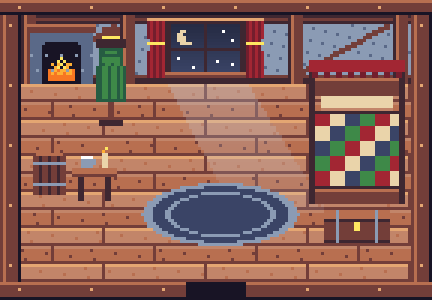
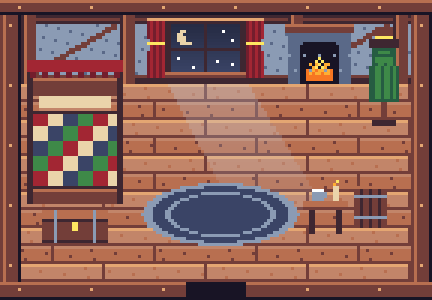
feat: the waiting room's reader sits with the hearth at its back
The hearth moves from the corner to the back wall, right of the window,
and the hero reads in its armchair before it; the canopy bed and its
trunk go left, the coat rack to the right corner, the barrel and the
table to the bottom right, out of the hero's way in.

Changed region(s): [[0.662, 0.06, 0.963, 0.81], [0.0602, 0.06, 0.3009, 0.81]]

diff --git a/scripts/room_idle.py b/scripts/room_idle.py
@@ -1,10 +1,11 @@
 #!/usr/bin/env python3
 """Draw the waiting room: an inn's bedroom at night. Plaster walls between
 dark timber, a window with the moon whose light falls across the board
-floor, a small hearth in the corner, a canopy bed with a patchwork quilt
-and a trunk at its foot, a coat rack, a barrel and a little table with a
-mug and a candle, and a round rug. The hero reads in an armchair by the
-window (the code draws the armchair, at the room style's spot).
+floor, a small hearth by it, a canopy bed with a patchwork quilt and a
+trunk at its foot, a coat rack, a barrel and a little table with a mug
+and a candle, and a round rug. The hero reads in an armchair before the
+hearth, by the window (the code draws the armchair, at the room style's
+spot).
 
 The walls, floor and frame keep the other rooms' places (the door, the
 back wall's height), so the hero walks in and out the same way.
@@ -48,8 +49,10 @@ class Layer:
     def __init__(self):
         self.im = Image.new('RGBA', (W, H))
         self.px = self.im.load()
+        self.at = (0, 0)  # where the piece being drawn is moved to
 
     def put(self, x, y, c, a=255):
+        x, y = x + self.at[0], y + self.at[1]
         if 0 <= x < W and 0 <= y < H:
             self.px[x, y] = tuple(c) + (a,)
 
@@ -60,6 +63,7 @@ class Layer:
 
     def get(self, x, y):
         return self.px[x, y][:3]
+
 
 
 def mix(a, b, k):
@@ -155,7 +159,8 @@ def furniture():
                 p.put(x, y, CURTAIN_DARK if (x - x0) % 2 == 0 else CURTAIN)
         for x in range(x0, x1 + 1):
             p.put(x, 14, GOLD)                  # the tie
-    # ---- Hearth in the corner: stone, a small fire.
+    # ---- Hearth right of the window, behind the reader: stone, a small fire.
+    p.at = (86, 0)
     p.box(10, 9, 30, 27, STONE)
     p.box(10, 9, 30, 9, STONE_LIT)
     p.box(9, 8, 31, 10, BEAM)                   # mantel
@@ -169,7 +174,9 @@ def furniture():
     for x in range(10, 31, 5):
         p.put(x, 18, STONE_LIT)
         p.put(x + 2, 23, STONE_LIT)
-    # ---- Coat rack: a pole, a hook bar, a hooded cloak and a hat on top.
+    # ---- Coat rack in the right corner: a pole, a hook bar, a hooded cloak
+    # and a hat on top.
+    p.at = (91, 0)
     p.box(36, 12, 37, 40, BEAM)
     p.box(33, 40, 40, 41, DARK)
     p.box(32, 15, 41, 15, DARK)
@@ -185,7 +192,8 @@ def furniture():
     p.box(32, 13, 41, 14, DARK)                 # the hat's brim
     p.box(34, 9, 39, 12, BEAM)                  # its crown
     p.box(34, 12, 39, 12, GOLD)                 # and band
-    # ---- Canopy bed on the right: posts, drape, headboard, pillow, quilt.
+    # ---- Canopy bed on the left: posts, drape, headboard, pillow, quilt.
+    p.at = (-94, 0)
     for x0 in (103, 133):
         p.box(x0, 20, x0 + 1, 67, DARK)
     p.box(103, 20, 134, 23, CURTAIN)
@@ -205,6 +213,7 @@ def furniture():
     p.box(105, 63, 132, 67, BEAM)
     p.box(105, 63, 132, 63, WOOD)
     # ---- Trunk at the bed's foot.
+    p.at = (-94, 0)
     p.box(108, 70, 129, 80, BEAM)
     p.box(108, 70, 129, 72, WOOD)
     p.box(108, 73, 129, 73, DARK)
@@ -212,13 +221,15 @@ def furniture():
     for x in (112, 125):
         p.box(x, 70, x, 80, METAL)
     p.box(118, 74, 119, 76, GOLD)
-    # ---- Barrel, and a little table with a mug and a candle.
+    # ---- Barrel, and a little table with a mug and a candle, bottom right.
+    p.at = (107, 11)
     p.box(11, 52, 21, 64, BEAM)
     p.box(12, 51, 20, 51, WOOD)
     for x in (13, 16, 19):
         p.box(x, 52, x, 64, DARK)
     for y in (54, 61):
         p.box(11, y, 21, y, METAL)
+    p.at = (77, 11)
     p.box(24, 56, 38, 58, WOOD)                 # the table's top
     p.box(24, 58, 38, 58, BEAM)
     p.box(26, 59, 27, 66, DARK)
@@ -230,6 +241,7 @@ def furniture():
     p.put(34, 50, FIRE[1])
     p.put(35, 49, FIRE[2])
     # ---- Round rug.
+    p.at = (0, 0)
     for y in range(60, 82):
         for x in range(46, 100):
             d = ((x - 73) / 26) ** 2 + ((y - 71) / 10.5) ** 2

diff --git a/src/room_moves.rs b/src/room_moves.rs
@@ -9,8 +9,8 @@ pub fn moves(state: &str, size: RoomSize) -> &'static [Move] {
         ("blocked", RoomSize::Small) => &[(18.0, 5.0, 30.0, 16.0, 0.0, -1.0), (114.0, 5.0, 126.0, 16.0, 0.0, -1.0), (30.0, 30.0, 37.0, 40.0, 0.0, -9.0), (106.0, 30.0, 113.0, 40.0, 0.0, -9.0), (12.0, 56.0, 22.0, 65.0, 0.0, -32.0), (44.0, 44.0, 100.0, 82.0, 0.0, -38.0), (50.0, 48.0, 94.0, 55.0, 0.0, -26.0), (50.0, 71.0, 94.0, 78.0, 0.0, -42.0), (112.0, 42.0, 121.0, 51.0, 0.0, -20.0)],
         ("done", RoomSize::Medium) => &[(22.0, 30.0, 31.0, 43.0, 0.0, -2.0), (10.0, 40.0, 20.0, 45.0, 0.0, -7.0), (122.0, 40.0, 132.0, 45.0, 0.0, -7.0), (100.0, 44.0, 116.0, 58.0, 0.0, -12.0), (40.0, 50.0, 100.0, 84.0, 0.0, -26.0), (44.0, 56.0, 96.0, 69.0, 0.0, -26.0), (44.0, 78.0, 96.0, 91.0, 0.0, -35.0), (30.0, 66.0, 40.0, 71.0, 0.0, -22.0), (124.0, 74.0, 134.0, 79.0, 0.0, -27.0), (10.0, 80.0, 20.0, 85.0, 0.0, -32.0), (112.0, 82.0, 122.0, 87.0, -4.0, -32.0)],
         ("done", RoomSize::Small) => &[(14.0, 5.0, 26.0, 16.0, 0.0, -1.0), (118.0, 5.0, 130.0, 16.0, 0.0, -1.0), (36.0, 9.0, 39.0, 15.0, 0.0, -2.0), (104.0, 9.0, 107.0, 15.0, 0.0, -2.0), (22.0, 30.0, 31.0, 43.0, 0.0, -8.0), (100.0, 44.0, 116.0, 58.0, 0.0, -23.0), (40.0, 50.0, 100.0, 84.0, 0.0, -40.0), (44.0, 56.0, 96.0, 63.0, 0.0, -34.0), (44.0, 84.0, 96.0, 91.0, 0.0, -55.0), (10.0, 40.0, 20.0, 45.0, 0.0, -9.0), (122.0, 40.0, 132.0, 45.0, 0.0, -9.0)],
-        ("idle", RoomSize::Medium) => &[(88.0, 30.0, 102.0, 52.0, 0.0, -4.0), (103.0, 60.0, 135.0, 68.0, 0.0, -24.0), (108.0, 70.0, 130.0, 81.0, 0.0, -25.0), (11.0, 51.0, 22.0, 65.0, 0.0, -16.0), (24.0, 49.0, 39.0, 67.0, 0.0, -16.0), (46.0, 60.0, 100.0, 71.0, 0.0, -24.0), (46.0, 73.0, 100.0, 82.0, 0.0, -26.0)],
-        ("idle", RoomSize::Small) => &[(49.0, 6.0, 88.0, 17.0, 0.0, -1.0), (49.0, 21.0, 88.0, 26.0, 0.0, -5.0), (9.0, 8.0, 32.0, 14.0, 0.0, -2.0), (9.0, 18.0, 32.0, 28.0, 0.0, -6.0), (88.0, 30.0, 102.0, 52.0, 0.0, -20.0), (103.0, 20.0, 135.0, 36.0, 0.0, -10.0), (103.0, 58.0, 135.0, 68.0, 0.0, -32.0), (11.0, 51.0, 22.0, 65.0, 0.0, -29.0), (24.0, 49.0, 39.0, 59.0, 0.0, -24.0)],
+        ("idle", RoomSize::Medium) => &[(98.0, 30.0, 114.0, 52.0, 0.0, -4.0), (9.0, 60.0, 42.0, 68.0, 0.0, -24.0), (14.0, 70.0, 37.0, 81.0, 0.0, -25.0), (118.0, 62.0, 129.0, 76.0, 0.0, -20.0), (46.0, 60.0, 100.0, 71.0, 0.0, -24.0), (46.0, 73.0, 100.0, 82.0, 0.0, -26.0)],
+        ("idle", RoomSize::Small) => &[(49.0, 6.0, 88.0, 17.0, 0.0, -1.0), (49.0, 21.0, 88.0, 26.0, 0.0, -5.0), (95.0, 8.0, 118.0, 14.0, 0.0, -2.0), (95.0, 18.0, 118.0, 28.0, 0.0, -6.0), (98.0, 30.0, 114.0, 52.0, 0.0, -20.0), (9.0, 20.0, 42.0, 36.0, 0.0, -10.0), (9.0, 58.0, 42.0, 68.0, 0.0, -32.0), (118.0, 62.0, 129.0, 76.0, 0.0, -40.0)],
         ("limited", RoomSize::Medium) => &[(12.0, 56.0, 22.0, 65.0, 0.0, -26.0), (12.0, 66.0, 30.0, 83.0, 0.0, -27.0), (44.0, 40.0, 100.0, 70.0, 0.0, -16.0), (60.0, 70.0, 84.0, 80.0, 0.0, -20.0), (106.0, 40.0, 122.0, 52.0, 0.0, -8.0)],
         ("limited", RoomSize::Small) => &[(18.0, 5.0, 30.0, 16.0, 0.0, -1.0), (114.0, 5.0, 126.0, 16.0, 0.0, -1.0), (30.0, 30.0, 37.0, 40.0, 0.0, -9.0), (106.0, 30.0, 113.0, 40.0, 0.0, -9.0), (12.0, 56.0, 22.0, 65.0, 0.0, -32.0), (44.0, 40.0, 100.0, 70.0, 0.0, -30.0), (60.0, 70.0, 84.0, 80.0, 0.0, -37.0), (106.0, 40.0, 122.0, 52.0, 0.0, -20.0)],
         ("unknown", RoomSize::Medium) => &[(23.0, 48.0, 37.0, 59.0, 0.0, -14.0), (102.0, 52.0, 112.0, 63.0, 0.0, -14.0), (110.0, 76.0, 115.0, 83.0, 8.0, -30.0), (44.0, 78.0, 56.0, 84.0, 0.0, -30.0)],

diff --git a/scripts/room_sizes.py b/scripts/room_sizes.py
@@ -191,25 +191,23 @@ def done(r):
 
 def idle(r):
     """The inn's bedroom: window, hearth and coat rack on the back wall; the
-    canopy bed on the right; barrel and table on the left; the round rug."""
+    canopy bed on the left; barrel and table bottom right; the round rug."""
     if r.size == 'medium':
         r.put((0, 0, 144, 28), (0, 0), code=False)
-        r.put((32, 28, 42, 42), (32, 28), code=False)     # the coat rack's foot
-        r.move((88, 30, 102, 52), 0, -4)                   # the armchair by the window
-        r.squeeze((103, 20, 135, 68), 16, 8, 20)           # canopy bed, shorter
-        r.put((108, 70, 130, 81), (108, 45))               # trunk
-        r.put((11, 51, 22, 65), (11, 35))                  # barrel
-        r.put((24, 49, 39, 67), (24, 33))                  # table, mug and candle
+        r.put((122, 28, 134, 42), (122, 28), code=False)  # the coat rack's foot
+        r.move((98, 30, 114, 52), 0, -4)                   # the armchair before the hearth
+        r.squeeze((9, 20, 42, 68), 16, 8, 20)              # canopy bed, shorter
+        r.put((14, 70, 37, 81), (14, 45))                  # trunk
+        r.put((118, 62, 129, 76), (118, 42))               # barrel
         r.squeeze((46, 60, 100, 82), 11, 9, 36)            # rug
     else:
         r.put((49, 6, 88, 17), (49, 5))                    # window, without its lower panes
         r.put((49, 21, 88, 26), (49, 16))
-        r.put((9, 8, 32, 14), (9, 6))                      # hearth, shorter
-        r.put((9, 18, 32, 28), (9, 12))
-        r.move((88, 30, 102, 52), 0, -20)
-        r.squeeze((103, 20, 135, 68), 16, 10, 10)
-        r.put((11, 51, 22, 65), (11, 22))
-        r.put((24, 49, 39, 59), (24, 25))
+        r.put((95, 8, 118, 14), (95, 6))                   # hearth, shorter
+        r.put((95, 18, 118, 28), (95, 12))
+        r.move((98, 30, 114, 52), 0, -20)
+        r.squeeze((9, 20, 42, 68), 16, 10, 10)
+        r.put((118, 62, 129, 76), (118, 22))
 
 
 def unknown(r):

diff --git a/src/scene.rs b/src/scene.rs
@@ -69,16 +69,16 @@ pub const STYLES: [RoomStyle; 6] = [
                 route: &[pos2(72.0, 80.0), pos2(52.0, 72.0)] },
     RoomStyle { status: "working", title: "TRABAJANDO", background: "room_working", color: Color32::from_rgb(255, 159, 10), bubble: None, spot: pos2(72.0, 34.0), roam: 0.0, lying: false,
                 route: &[pos2(72.0, 80.0), pos2(36.0, 74.0), pos2(36.0, 36.0)] },
-    RoomStyle { status: "idle", title: "EN ESPERA", background: "room_idle", color: Color32::from_rgb(152, 152, 157), bubble: None, spot: pos2(95.0, 40.0), roam: 0.0, lying: false,
-                route: &[pos2(72.0, 80.0), pos2(95.0, 74.0), pos2(95.0, 44.0)] },
+    RoomStyle { status: "idle", title: "EN ESPERA", background: "room_idle", color: Color32::from_rgb(152, 152, 157), bubble: None, spot: pos2(106.0, 40.0), roam: 0.0, lying: false,
+                route: &[pos2(72.0, 80.0), pos2(90.0, 74.0), pos2(90.0, 46.0)] },
     RoomStyle { status: "done", title: "LISTO", background: "room_done", color: Color32::from_rgb(48, 209, 88), bubble: None, spot: pos2(72.0, 66.0), roam: 0.0, lying: false, route: &[] },
     RoomStyle { status: "unknown", title: "SIN ESTADO", background: "room_unknown", color: Color32::from_rgb(152, 152, 157), bubble: Some("…"), spot: pos2(72.0, 62.0), roam: 24.0, lying: false, route: &[] },
 ];
 
 /// The waiting room's window, whose moonlight the reading hero sits in, and
-/// its hearth in the corner.
-const WINDOW: Pos2 = pos2(84.0, 30.0);
-const HEARTH: Pos2 = pos2(20.0, 22.0);
+/// the hearth at its back.
+const WINDOW: Pos2 = pos2(92.0, 30.0);
+const HEARTH: Pos2 = pos2(106.0, 22.0);
 
 /// The doorway in the bottom wall that every room shares, and a point just
 /// outside it (clipped away) where the hero leaves and arrives.

diff --git a/README.md b/README.md
@@ -23,7 +23,7 @@ Binaries for macOS (`.app`) and Linux (x86_64) are on the [Releases](https://git
 | `working` | <img src="docs/media/room_working.png" width="216" alt=""> | Workshop: desk, bookshelves, forge, alchemy table | Works at the station of its last tool: reads, forges, brews, summons, plans or types |
 | `blocked` | <img src="docs/media/room_blocked.png" width="216" alt=""> | Sealed door, braziers, a rug | Jumps on the rug under a pulsing red "!" |
 | session limit | <img src="docs/media/room_limited.png" width="216" alt=""> | Infirmary with a cot under the red cross | Exhausted, asleep on the cot under a breathing blanket, with the time left to recover until the reset |
-| `idle` | <img src="docs/media/room_idle.png" width="216" alt=""> | An inn's bedroom at night: a canopy bed, a corner hearth, the moon through the window | Reads in an armchair by the window, in the moonlight, turning a page now and then |
+| `idle` | <img src="docs/media/room_idle.png" width="216" alt=""> | An inn's bedroom at night: a canopy bed, a hearth, the moon through the window | Reads in an armchair with the fire at its back, by the window, turning a page now and then |
 | `done` | <img src="docs/media/room_done.png" width="216" alt=""> | Treasure chamber | Jumps for joy under a green tick, confetti flying |
 | unknown | <img src="docs/media/room_unknown.png" width="216" alt=""> | Ruins with a portal | Wanders, looking around |
 
